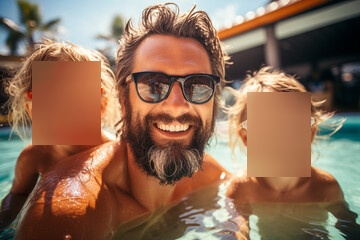
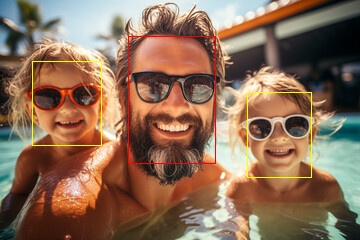
Realizado el marco del ejercicio 3

Changed region(s): [[0.0611, 0.2333, 0.3056, 0.6125], [0.6722, 0.3792, 0.8861, 0.7583], [0.3361, 0.1458, 0.6111, 0.7]]

diff --git a/src/home/templates/ejercicio-2.html b/src/home/templates/ejercicio-2.html
@@ -6,13 +6,13 @@
 
 
 {% block estilos %}
-<link rel="stylesheet" href="{% static 'css/ejercicio-1.css' %}">
+<link rel="stylesheet" href="{% static 'css/ejercicios.css' %}">
 {% endblock %}
 
 {% block content %}
 <section>
     <article>
-        <h2>En este apartado podrás emborronar las caras según un JSON.</h2>
+        <h2>En este apartado podrás emborronar las caras de los menores según un JSON.</h2>
     </article>
     <article>
         {% include 'layouts/form-elegir-imagen.html'%}

diff --git a/src/home/templates/ejercicio-3.html b/src/home/templates/ejercicio-3.html
@@ -1,11 +1,20 @@
 {% extends 'layouts/base.html' %}
 
+{% load static %}
+
 {% block titulo %}Ejercicio 3{% endblock %}
 
 {% block estilos %}
-
+<link rel="stylesheet" href="{% static 'css/ejercicios.css' %}">
 {% endblock %}
 
 {% block content %}
-
+<section>
+    <article>
+        <h2>En este apartado podrás emborronar las caras según un JSON.</h2>
+    </article>
+    <article>
+        {% include 'layouts/form-elegir-imagen.html'%}
+    </article>
+</section>
 {% endblock %}

diff --git a/src/home/templates/ejercicio-1.html b/src/home/templates/ejercicio-1.html
@@ -5,7 +5,7 @@
 {% block titulo %}Ejercicio 1{% endblock %}
 
 {% block estilos %}
-<link rel="stylesheet" href="{% static 'css/ejercicio-1.css' %}">
+<link rel="stylesheet" href="{% static 'css/ejercicios.css' %}">
 {% endblock %}
 
 {% block content %}

diff --git a/src/home/templates/layouts/form-elegir-imagen.html b/src/home/templates/layouts/form-elegir-imagen.html
@@ -1,5 +1,6 @@
 <form method="post">
     {% csrf_token %}
+    
     {{ form.as_p }}
     <input type="submit" value="Enviar">
 </form>

diff --git a/src/lib_apps_aws_rekognition/apps_aws_rekognition/imagenes.py b/src/lib_apps_aws_rekognition/apps_aws_rekognition/imagenes.py
@@ -9,6 +9,10 @@ import json
 from typing import List
 from django.conf import settings
 
+AMARILLO = (0, 255, 255)
+ROJO = (0, 0, 255)
+VERDE = (0, 255, 0)
+
 def get_imagenes():
     """
     Obtener las iamgenes de la carperta media/imagenes
@@ -161,11 +165,92 @@ def proteccion_menores(nombre_imagen: str):
 
 #############################################################
 ## 3. Caso práctico tres: clasificación de rostros
-def clasificacion_rostros():
-    pass
+def clasificacion_rostros(nombre_imagen: str):
+    imagen_db = Imagen.objects.get(imagen=formatear_ruta(["imagenes"], nombre_imagen))
+
+    imagen_ruta = formatear_ruta([settings.MEDIA_ROOT], str(imagen_db.imagen))
+    json_ruta = formatear_ruta([settings.MEDIA_ROOT], imagen_db.json.__str__())
+
+    try:
+        with open(json_ruta, "r") as archivo:
+            imagen_json = json.load(archivo)
+    except FileNotFoundError:
+        print("El fichero no se ha encontrado") # Este error no debería de ocurrir nunca
+    except json.JSONDecodeError:
+        print("Ha ocurrido un error al decodificar el json")
+
+    
+    imagen = cv2.imread(imagen_ruta, cv2.IMREAD_UNCHANGED)
+
+    if imagen is None:
+        raise FileNotFoundError("La imagen no se ha encontrado")
+
+    alto, ancho = imagen.shape[:2]
+
+    for cara in imagen_json["FaceDetails"]:
+        ancho_cara = float(cara["BoundingBox"]["Width"])
+        alto_cara = float(cara["BoundingBox"]["Height"])
+        esquina_izquierda = float(cara["BoundingBox"]["Left"])
+        esquina_superior = float(cara["BoundingBox"]["Top"])
+        x1, y1 = round(esquina_izquierda * ancho), round(esquina_superior * alto)
+        x2, y2 = round(x1 + ancho_cara * ancho), round(y1 + alto_cara * alto)
+
+        if cara["AgeRange"]["Low"] < 18:
+            cv2.rectangle(imagen, (x1, y1), (x2, y2), AMARILLO)
+
+        elif cara["Gender"]["Value"] == "Male":
+            cv2.rectangle(imagen, (x1, y1), (x2, y2), ROJO)
+        else: 
+            cv2.rectangle(imagen, (x1, y1), (x2, y2), VERDE)
+
+
+    nombre_nueva_imagen = formatear_ruta([settings.MEDIA_ROOT, "imagenes", "creadas"], formatear_nombre_imagen(nombre_imagen, "_dif_men"))
+    print(nombre_nueva_imagen)
+    
+    guardar_imagen(nombre_nueva_imagen, imagen)
+
+    return os.path.split(nombre_nueva_imagen)[1]
 
 
 #############################################################
 ## 4. Caso práctico cuatro: etiquetado de personas
-def etiquetado_personas():
-    pass
+def etiquetado_personas(nombre_imagen: str):
+    imagen_db = Imagen.objects.get(imagen=formatear_ruta(["imagenes"], nombre_imagen))
+
+    imagen_ruta = formatear_ruta([settings.MEDIA_ROOT], str(imagen_db.imagen))
+    json_ruta = formatear_ruta([settings.MEDIA_ROOT], imagen_db.json.__str__())
+
+    try:
+        with open(json_ruta, "r") as archivo:
+            imagen_json = json.load(archivo)
+    except FileNotFoundError:
+        print("El fichero no se ha encontrado") # Este error no debería de ocurrir nunca
+    except json.JSONDecodeError:
+        print("Ha ocurrido un error al decodificar el json")
+
+    
+    imagen = cv2.imread(imagen_ruta, cv2.IMREAD_UNCHANGED)
+
+    if imagen is None:
+        raise FileNotFoundError("La imagen no se ha encontrado")
+
+    alto, ancho = imagen.shape[:2]
+
+    for cara in imagen_json["FaceDetails"]:
+        if cara["AgeRange"]["Low"] < 18:
+            ancho_cara = float(cara["BoundingBox"]["Width"])
+            alto_cara = float(cara["BoundingBox"]["Height"])
+            esquina_izquierda = float(cara["BoundingBox"]["Left"])
+            esquina_superior = float(cara["BoundingBox"]["Top"])
+            x1, y1 = round(esquina_izquierda * ancho), round(esquina_superior * alto)
+            x2, y2 = round(x1 + ancho_cara * ancho), round(y1 + alto_cara * alto)
+
+            imagen[y1:y2, x1:x2] = cv2.medianBlur(imagen[y1:y2, x1:x2], 99)
+
+
+    nombre_nueva_imagen = formatear_ruta([settings.MEDIA_ROOT, "imagenes", "creadas"], formatear_nombre_imagen(nombre_imagen, "_dif_men"))
+    print(nombre_nueva_imagen)
+    
+    guardar_imagen(nombre_nueva_imagen, imagen)
+
+    return os.path.split(nombre_nueva_imagen)[1]

diff --git a/src/home/views.py b/src/home/views.py
@@ -59,9 +59,11 @@ def mostrar_imagen(request, numero_ejercicio):
         img = aar.proteccion_menores(imagen)
         texto = "Difuminado de rostros de menores"
     elif numero_ejercicio == 3:
-        pass
+        img = aar.clasificacion_rostros(imagen)
+        texto = "Clasificación de rostros"
     else:
-        pass
+        img = aar.etiquetado_personas(imagen)
+        texto = "Etiquetado de personas"
     
     return render(request, f"mostrar-imagen.html", {
         'imagen': f"/media/imagenes/creadas/{img}",

diff --git a/src/home/forms.py b/src/home/forms.py
@@ -19,4 +19,4 @@ class ImagenForm(forms.ModelForm):
 		self.fields['imagen'].required = False
 
 class ImagenesSelect(forms.Form):
-	imagen = forms.ChoiceField(choices=get_imagenes(), label='Selecciona una imagen para difuminar los rotros')
+	imagen = forms.ChoiceField(choices=[("", "Elige una imagen ...")] + get_imagenes(), label='Selecciona una imagen')
